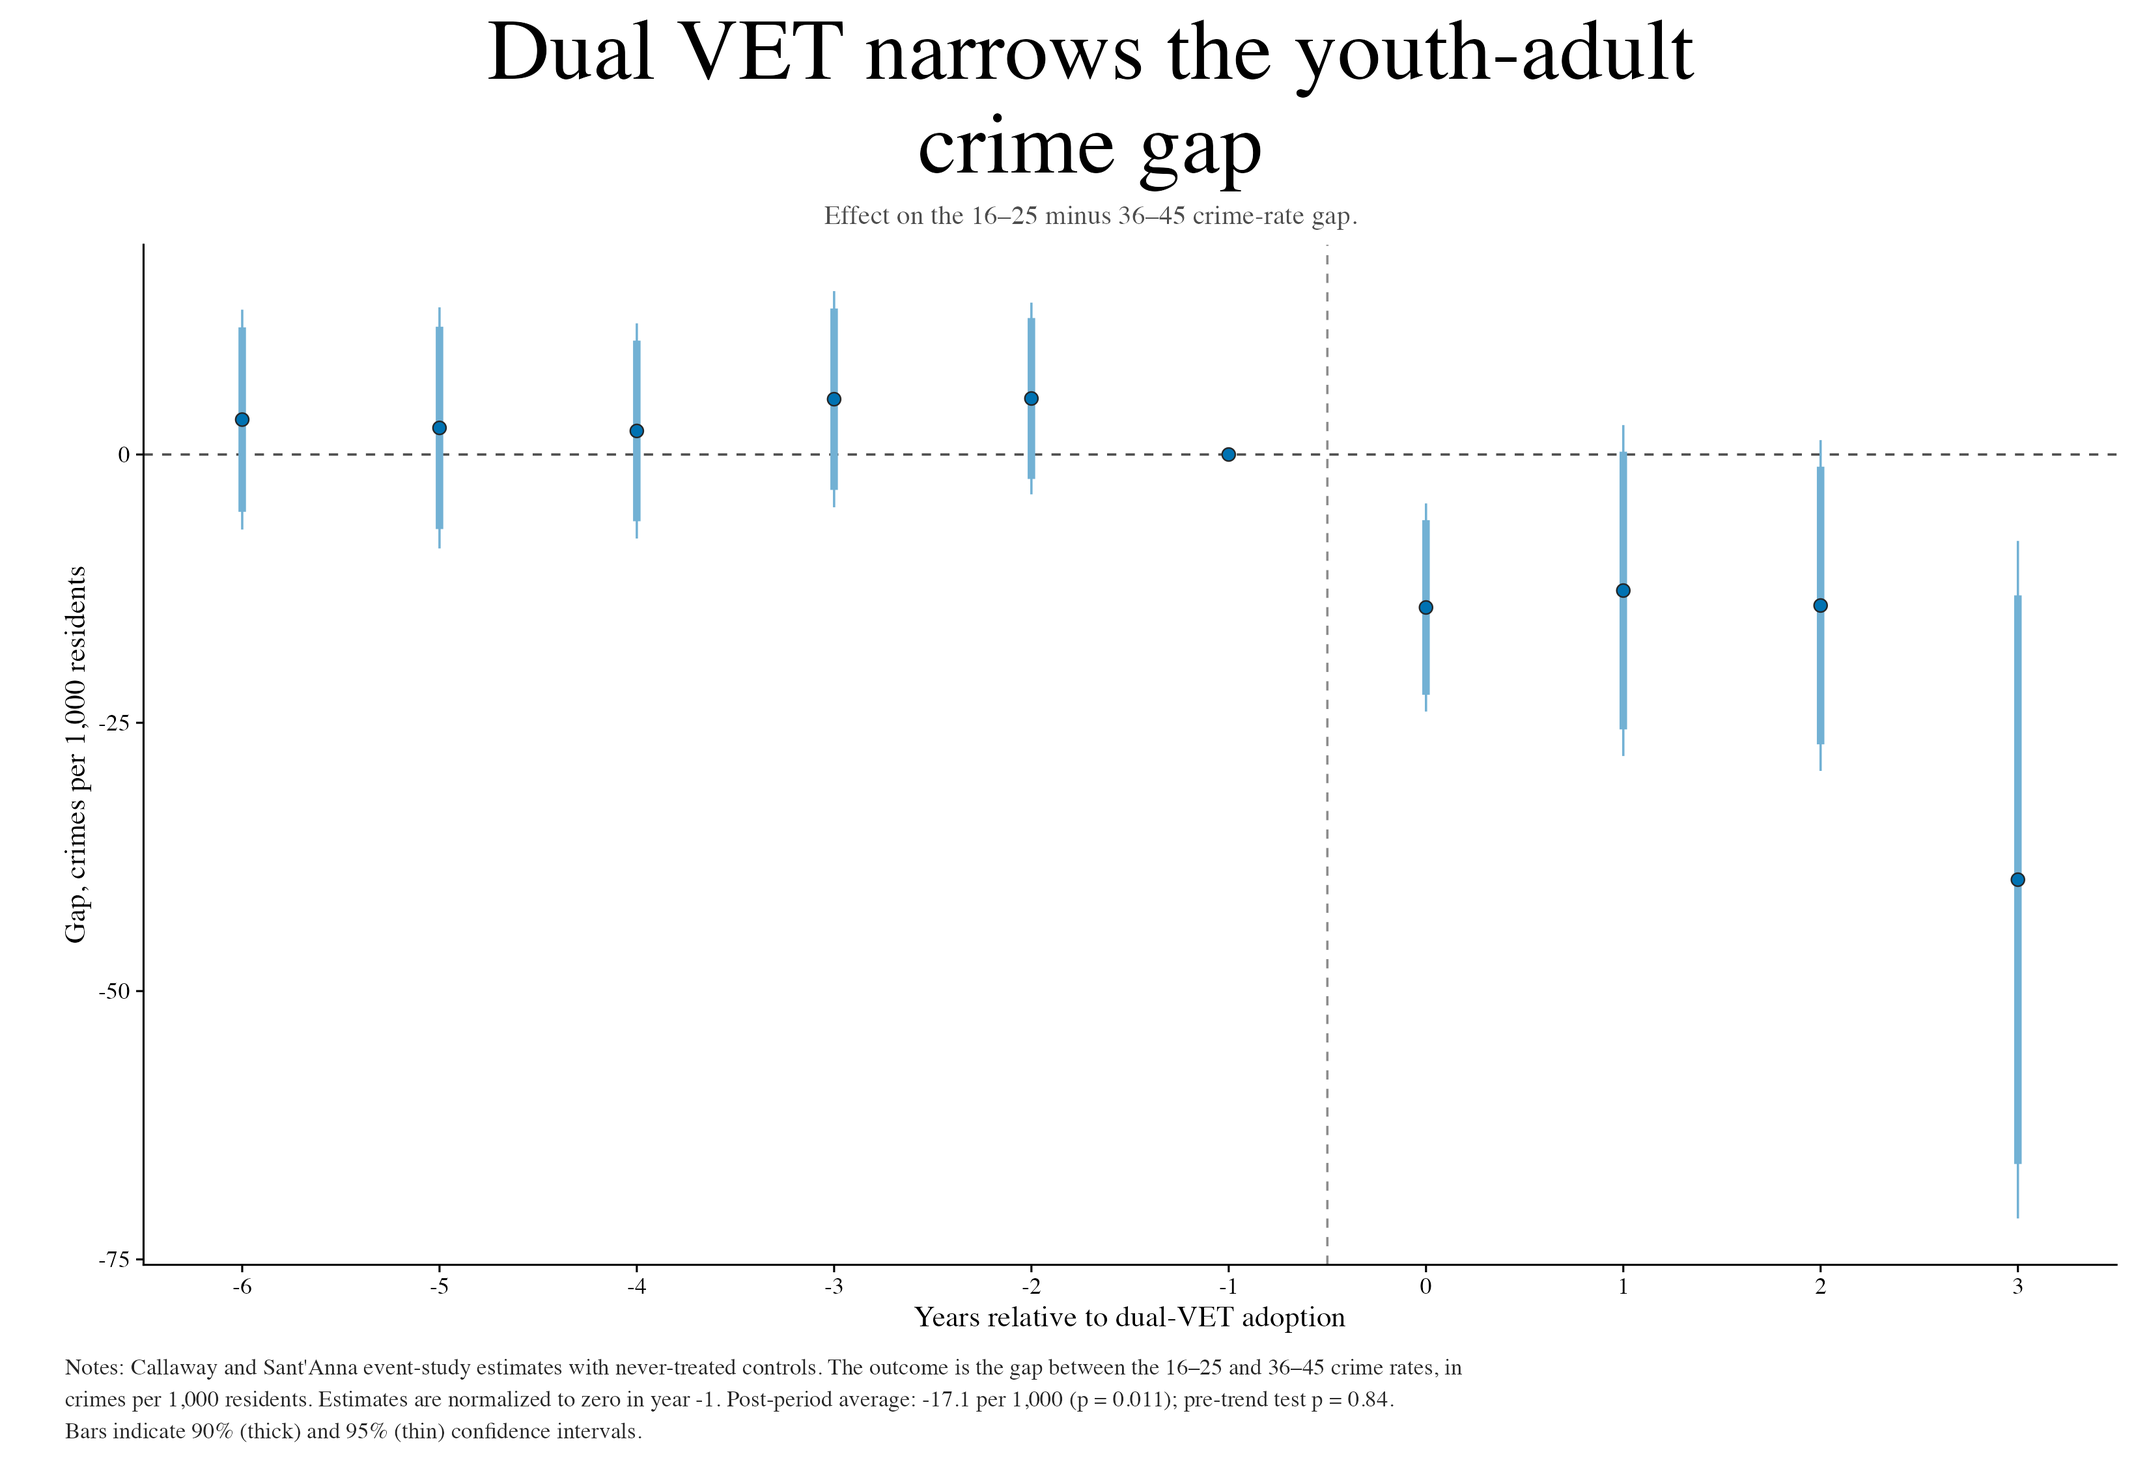
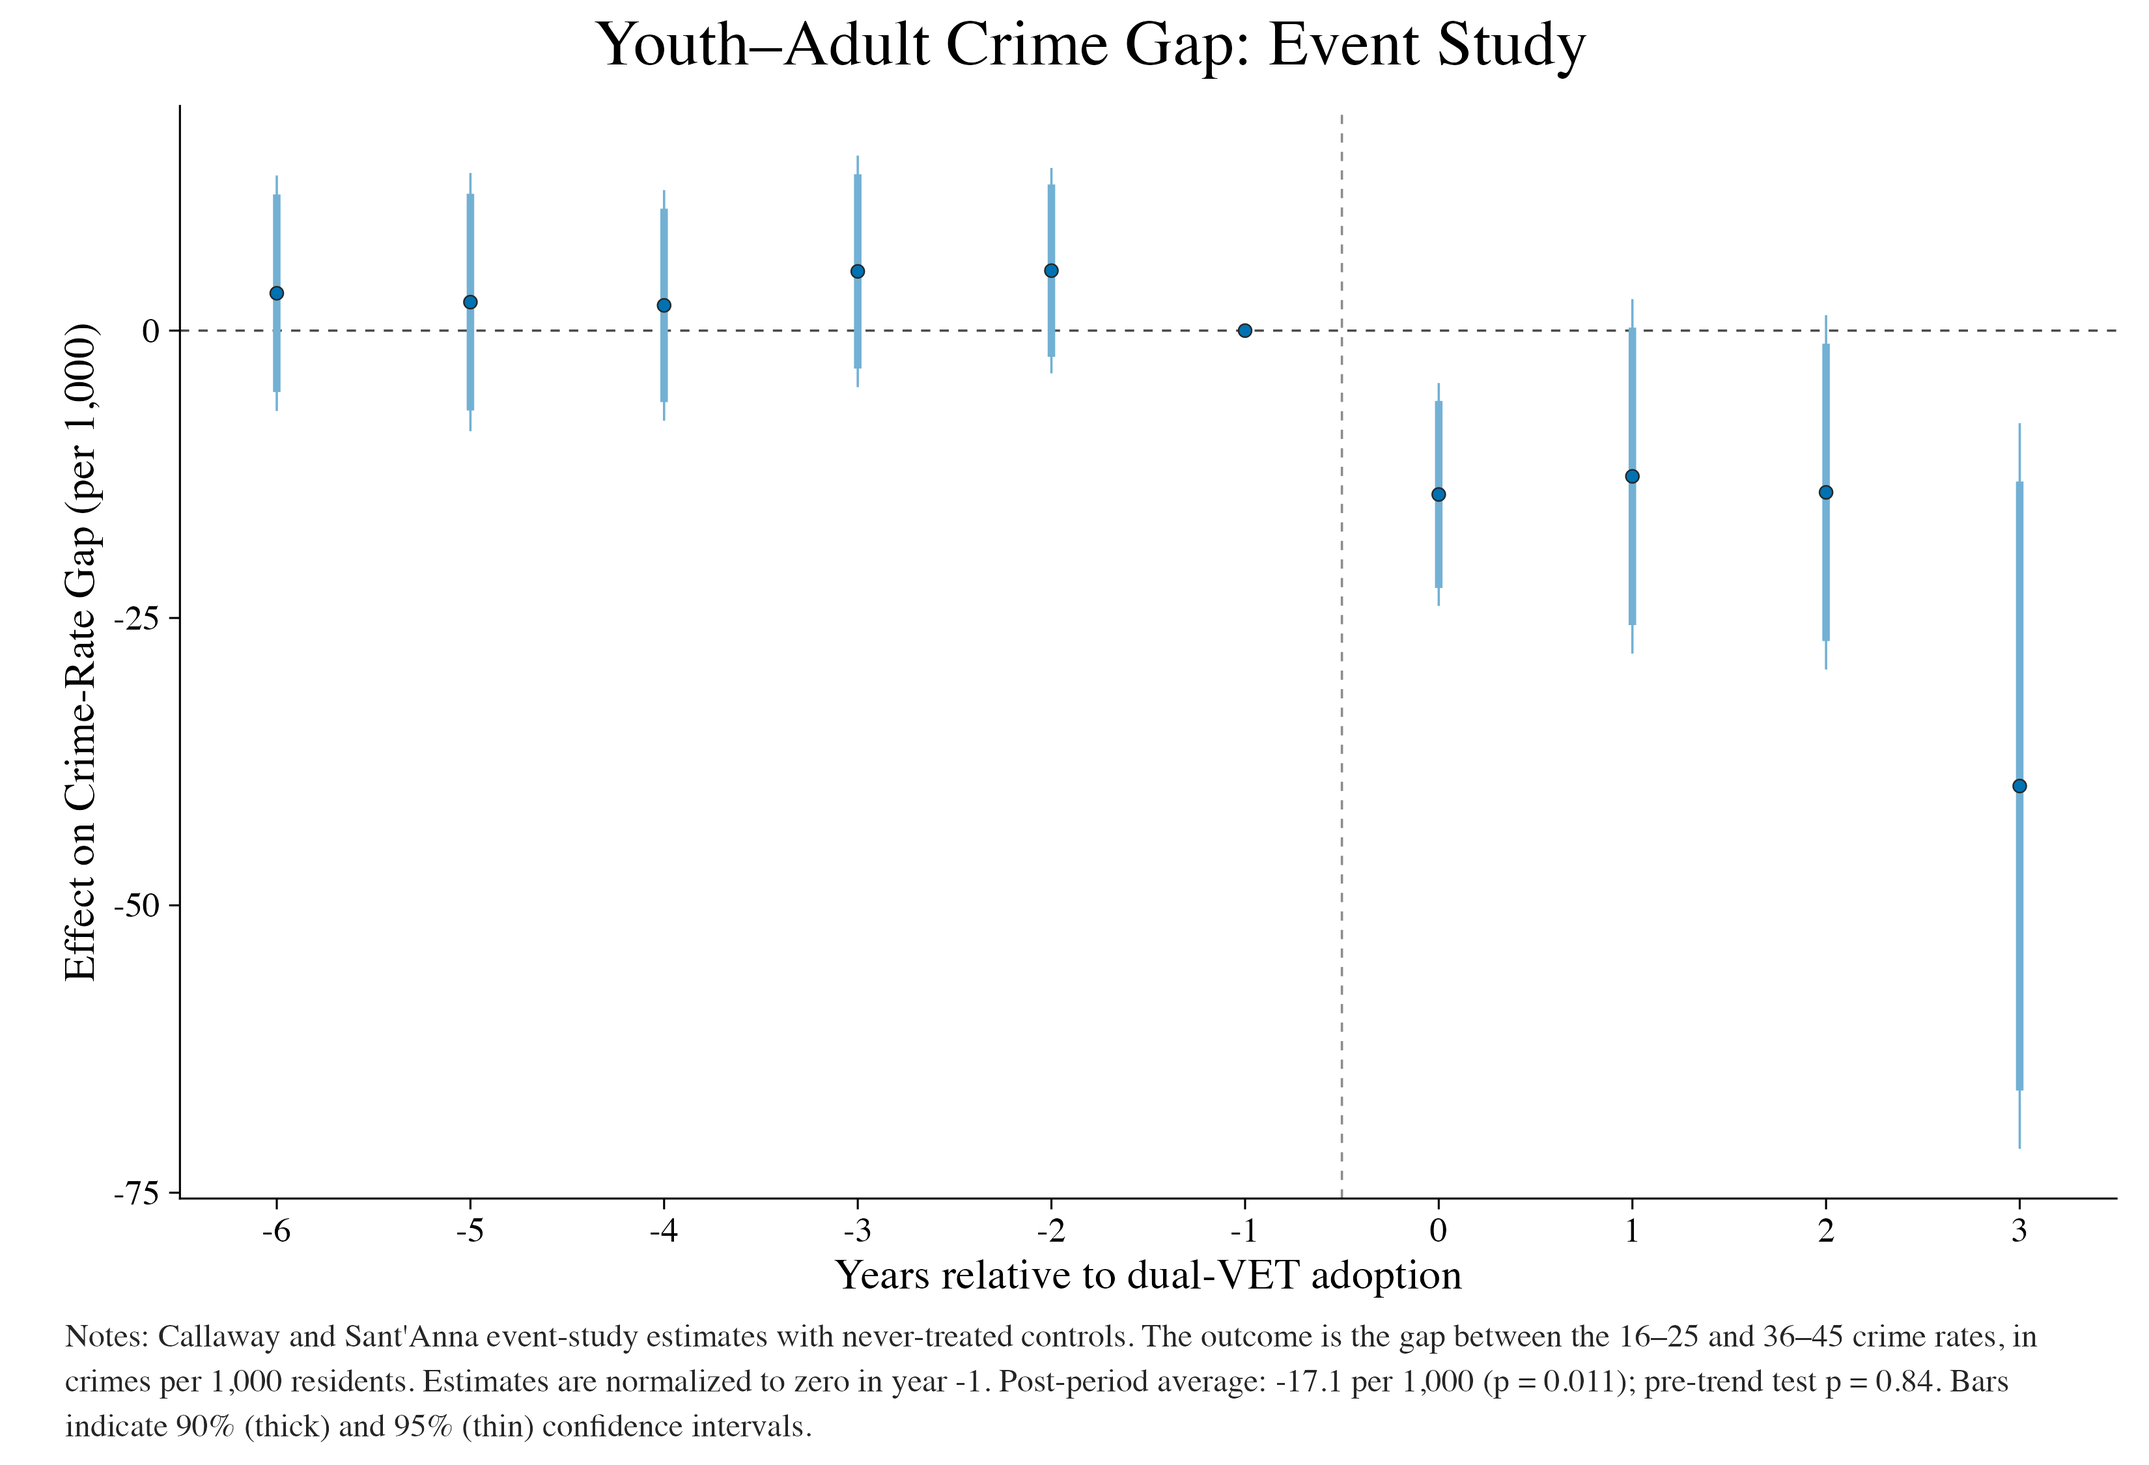
Use outcome-first figure titles and balanced typography

diff --git a/index.html b/index.html
@@ -86,8 +86,8 @@
                         <a href="https://sites.google.com/site/ruizvalenjenifer/" target="_blank" rel="noopener">Jenifer Ruiz Valenzuela</a>)
                     </p>
                     <div class="paper-figures">
-                        <img src="/img/crime_monthly_earnings_large.png?v=20261102d" alt="Graduate Survey – Monthly Earnings">
-                        <img src="/img/crime_youth_adult_gap_centered.png?v=20261102d" alt="Dual VET Narrows the Youth–Adult Crime Gap">
+                        <img src="/img/crime_monthly_earnings_large.png?v=20261104a" alt="Monthly Earnings: Event Study">
+                        <img src="/img/crime_youth_adult_gap_centered.png?v=20261104a" alt="Youth–Adult Crime Gap: Event Study">
                     </div>
                     <div class="abstract-toggle">
                         <button type="button" onclick="toggleAbstract(1)" class="abstract-btn" id="pubabslink_1" aria-expanded="false" aria-controls="pubabs_1">
@@ -106,8 +106,8 @@
                         <a href="https://sergiquintana.github.io/" target="_blank" rel="noopener">Sergi Quintana</a>)
                     </p>
                     <div class="paper-figures">
-                        <img src="/img/reshuffling_up.png?v=20261102d" alt="Continuous DiD – Infantil (published quotas; UP schools)">
-                        <img src="/img/reshuffling_by_type.png?v=20261102d" alt="Continuous DiD – Infantil (UP schools by type; published quotas)">
+                        <img src="/img/reshuffling_up.png?v=20261104a" alt="Vulnerable Student Enrollment: Event Study">
+                        <img src="/img/reshuffling_by_type.png?v=20261104a" alt="Vulnerable Student Enrollment by School Type: Event Study">
                     </div>
                     <div class="abstract-toggle">
                         <button type="button" onclick="toggleAbstract(2)" class="abstract-btn" id="pubabslink_2" aria-expanded="false" aria-controls="pubabs_2">

diff --git a/layouts/index.html b/layouts/index.html
@@ -87,8 +87,8 @@
                         <a href="https://sites.google.com/site/ruizvalenjenifer/" target="_blank" rel="noopener">Jenifer Ruiz Valenzuela</a>)
                     </p>
                     <div class="paper-figures">
-                        <img src="/img/crime_monthly_earnings_large.png?v=20261102d" alt="Graduate Survey – Monthly Earnings">
-                        <img src="/img/crime_youth_adult_gap_centered.png?v=20261102d" alt="Dual VET Narrows the Youth–Adult Crime Gap">
+                        <img src="/img/crime_monthly_earnings_large.png?v=20261104a" alt="Monthly Earnings: Event Study">
+                        <img src="/img/crime_youth_adult_gap_centered.png?v=20261104a" alt="Youth–Adult Crime Gap: Event Study">
                     </div>
                     <div class="abstract-toggle">
                         <button type="button" onclick="toggleAbstract(1)" class="abstract-btn" id="pubabslink_1" aria-expanded="false" aria-controls="pubabs_1">
@@ -107,8 +107,8 @@
                         <a href="https://sergiquintana.github.io/" target="_blank" rel="noopener">Sergi Quintana</a>)
                     </p>
                     <div class="paper-figures">
-                        <img src="/img/reshuffling_up.png?v=20261102d" alt="Continuous DiD – Infantil (published quotas; UP schools)">
-                        <img src="/img/reshuffling_by_type.png?v=20261102d" alt="Continuous DiD – Infantil (UP schools by type; published quotas)">
+                        <img src="/img/reshuffling_up.png?v=20261104a" alt="Vulnerable Student Enrollment: Event Study">
+                        <img src="/img/reshuffling_by_type.png?v=20261104a" alt="Vulnerable Student Enrollment by School Type: Event Study">
                     </div>
                     <div class="abstract-toggle">
                         <button type="button" onclick="toggleAbstract(2)" class="abstract-btn" id="pubabslink_2" aria-expanded="false" aria-controls="pubabs_2">

diff --git a/public/index.html b/public/index.html
@@ -86,8 +86,8 @@
                         <a href="https://sites.google.com/site/ruizvalenjenifer/" target="_blank" rel="noopener">Jenifer Ruiz Valenzuela</a>)
                     </p>
                     <div class="paper-figures">
-                        <img src="/img/crime_monthly_earnings_large.png?v=20261102d" alt="Graduate Survey – Monthly Earnings">
-                        <img src="/img/crime_youth_adult_gap_centered.png?v=20261102d" alt="Dual VET Narrows the Youth–Adult Crime Gap">
+                        <img src="/img/crime_monthly_earnings_large.png?v=20261104a" alt="Monthly Earnings: Event Study">
+                        <img src="/img/crime_youth_adult_gap_centered.png?v=20261104a" alt="Youth–Adult Crime Gap: Event Study">
                     </div>
                     <div class="abstract-toggle">
                         <button type="button" onclick="toggleAbstract(1)" class="abstract-btn" id="pubabslink_1" aria-expanded="false" aria-controls="pubabs_1">
@@ -106,8 +106,8 @@
                         <a href="https://sergiquintana.github.io/" target="_blank" rel="noopener">Sergi Quintana</a>)
                     </p>
                     <div class="paper-figures">
-                        <img src="/img/reshuffling_up.png?v=20261102d" alt="Continuous DiD – Infantil (published quotas; UP schools)">
-                        <img src="/img/reshuffling_by_type.png?v=20261102d" alt="Continuous DiD – Infantil (UP schools by type; published quotas)">
+                        <img src="/img/reshuffling_up.png?v=20261104a" alt="Vulnerable Student Enrollment: Event Study">
+                        <img src="/img/reshuffling_by_type.png?v=20261104a" alt="Vulnerable Student Enrollment by School Type: Event Study">
                     </div>
                     <div class="abstract-toggle">
                         <button type="button" onclick="toggleAbstract(2)" class="abstract-btn" id="pubabslink_2" aria-expanded="false" aria-controls="pubabs_2">

diff --git a/scripts/figures/README.md b/scripts/figures/README.md
@@ -21,7 +21,7 @@ To point it at another location, set `FIG_DROPBOX_ROOT`.
 
 ## Template
 
-The four figures follow the reference paper figure
+Geometry and marks follow the local paper figure
 `Vocational/5_Package/2_Out/Figures/1_did_offer/01_did_validation/eventstudy_crpc_ctrl.png`
 (`make_es_fig()` in `01_did_validation.R`, which calls `plot_event_study_paper_multi()` in
 `_helpers.R`). That figure is saved at 11 × 7.5 in and 300 dpi. The reference PNG is
@@ -30,12 +30,8 @@ website figures are 3300 × 2250, without that footer. Rendering at the referenc
 physical size matters: at the previous 7.2 × 4.4 in canvas, text was about 1.53 times
 too large relative to the panel.
 
-* Serif (Times via ragg). Title 32 pt (raised from the reference's 12 pt for
-  legibility on the site), regular, centred, wrapped on word boundaries at 36
-  characters (each current title takes two lines; `03_verify.R` also measures the
-  widest rendered line against the canvas width). Subtitle 10 pt, grey30. Axis
-  titles 11 pt. Tick and legend text 8.8 pt. Notes 8.5 pt, grey15, line height 1.15,
-  left aligned, wrapped at 150 characters. Plot margins 8/12/8/24 pt (top/right/bottom/left).
+* Typography: see *Titles and type hierarchy* below (serif, 24/16/13/13/12 pt, no
+  subtitle). Plot margins 8/12/8/24 pt (top/right/bottom/left).
 * White background, no grid, black axes (0.35). Zero line `#4D4D4D` and onset line
   `#8C8C8C`, both dashed (0.4).
 * Points size 2.0, stroke 0.4, border `#262626`. Single series: circle (21), fill
@@ -54,24 +50,66 @@ too large relative to the panel.
   saved p < 0.05 and hollow otherwise (including the 2018 reference year). Crime-gap and
   by-type markers are all filled. The 90% bounds play no role in the fill rule.
 
+## Titles and type hierarchy
+
+Reference for naming and hierarchy: the author PDF
+<https://anacostaramon.github.io/papers/KiVA_draft.pdf> (KiVA draft, 1 July 2026),
+Appendix Figure F1, PDF page 56 (printed page 55). Its event-study panels are titled
+by outcome, e.g. "(b) Academic Upper Sec.: Event Study" and "(d) Earnings at Age 29:
+Event Study"; the estimator, sample, clustering and interval conventions are stated in
+the Notes, not in the titles. Typography measured in that PDF: panel captions 9.96 pt;
+inside the panels, axis labels 5.15 pt, ticks 4.11 pt, legend 4.94 pt; Notes 8.97 pt
+across both columns of panels.
+
+The website figures adopt that pattern as a deliberate **web adaptation**, not an
+exact copy of the PDF point sizes:
+
+* Titles: "<Outcome>: Event Study", no estimator names and no result claims.
+  "Monthly Earnings: Event Study"; "Youth–Adult Crime Gap: Event Study"; "Vulnerable
+  Student Enrollment: Event Study"; "Vulnerable Student Enrollment by School Type:
+  Event Study". Embedded in the PNG only.
+* Sizes (serif, Times via ragg), shared by all four figures: title 24 pt regular,
+  centred; axis titles 16 pt; tick labels 13 pt; legend 13 pt; Notes 12 pt, grey15,
+  line height 1.15, left aligned. No subtitle (`subtitle = NULL`, no grob drawn).
+* Rationale: each figure is a standalone 11 × 7.5 in image shown at roughly column
+  width on the site, not a quarter-page panel under a 9.96 pt caption. The PDF's inner
+  sizes (4–5 pt) would be illegible there, so all text is scaled up while keeping the
+  same ordering (title > axis titles > ticks ≈ legend, Notes near tick size). The
+  previous 32 pt title over 11 pt axis titles, 8.8 pt ticks and 8.5 pt Notes inverted
+  the proportions relative to the panels and is retired.
+* Titles are word-wrapped at 70 characters; all four currently fit on one line.
+  `03_verify.R` requires at most 2 lines, all at 24 pt, and measures the widest rendered
+  line against the canvas width minus margins (10.5 in).
+* Notes are wrapped by rendered width (greedy word wrap measured at 12 pt on the ragg
+  device, 0.15 in safety allowance); `03_verify.R` re-measures every line against 10.5 in.
+
 ## Text
 
-Titles, axis labels and the printed statistics of the original website figures are
-kept. Each figure has a left-aligned "Notes:" paragraph that describes its own
+Printed statistics of the original website figures are kept; the original titles and
+subtitles were replaced by the outcome-first titles above, and their estimator, sample
+and outcome information moved into the Notes. Each figure has a left-aligned "Notes:" paragraph that describes its own
 estimator and sample and ends with the same sentence, "Bars indicate 90% (thick) and
 95% (thin) confidence intervals." How the bounds are computed (saved 95% bounds verbatim;
 90% = estimate ± `qnorm(0.95)` × saved SE) is documented here and in the source
 comments, not on the public charts. No variable or cache names appear in the Notes.
 
-* Crime gap: subtitle "Effect on the 16–25 minus 36–45 crime-rate gap." The
-  post-period average (−17.1 per 1,000, p = 0.011) and the pre-trend test (p = 0.84)
+* Axis titles: y "Effect on Monthly Earnings (EUR)" (wage), "Effect on Crime-Rate Gap
+  (per 1,000)" (gap), "Effect on Vulnerable Enrollment (Students)" (both enrollment
+  figures). The x titles keep their original period meaning ("Event time (years
+  relative to dual adoption)", "Years relative to dual-VET adoption", "Year").
+* Crime gap: the former subtitle (16–25 minus 36–45 gap) is covered by the Notes
+  sentence defining the outcome. The post-period average (−17.1 per 1,000, p = 0.011) and the pre-trend test (p = 0.84)
   move from the subtitle into the Notes. The Notes add the estimator ("Callaway and
   Sant'Anna event-study estimates with never-treated controls."; source series
   `csdid_nt`, not printed) and the normalisation (year −1).
 * Pooled UP: the original note (BCN public+charter; baseline 2016–2018; quota year 2019,
   ref = 2018; n = 311; filled = p < 0.05) becomes a sentence-form Notes paragraph naming
-  the continuous difference-in-differences event study.
-* By type: the printed averages (Public +0.057 / +1.259, n = 158; Charter −0.029 / +0.399,
+  the continuous difference-in-differences event study with published quotas. The former
+  title context ("Infantil") and subtitle ("Outcome: Effect on NESE-B number") become the
+  Notes sentence "The outcome is the number of vulnerable (NESE-B) students enrolled in
+  preschool (Infantil)." The variable is unchanged; "UP" is not expanded.
+* By type: same estimator, published-quota and outcome sentences as pooled UP.
+  The printed averages (Public +0.057 / +1.259, n = 158; Charter −0.029 / +0.399,
   n = 153) and the baseline, quota and reference years are kept in full. The original
   note was clipped at the right edge of the image; its full text (quota year 2019,
   ref = 2018) is confirmed by the source.
@@ -135,7 +173,7 @@ so they are **not** used.
 | Crime gap | C&S never-treated, 95% bars | identical values and saved 95% bounds (thin), added 90% bars (thick); blue circles; post-average and pre-trend statistics moved to Notes (panel tag "(a)" dropped) |
 | UP | ribbon 95% CI; filled = p < 0.05 | identical values and saved 95% bounds as thin bars, added 90% thick bars; filled blue circle = p < 0.05 (reference year hollow, as before); original note as Notes |
 | By type | 95% bars, all markers filled | identical values and saved 95% bounds, added 90% bars; Public #0072B2 circle, Charter #D55E00 triangle; untitled bottom legend; Notes keep printed averages and n |
-| Wage | 1600×1050 raster, 95% bars, hollow = not significant | same ggplot template; centres and 95% bar endpoints at the original image coordinates (graphical reconstruction, no numbers derived); added 90% thick bars = 95% bars scaled by qnorm(0.95)/1.96 about the centre; same hollow markers; original title and ATT 39.731*** (SE 13.047) |
+| Wage | 1600×1050 raster, 95% bars, hollow = not significant | same ggplot template; centres and 95% bar endpoints at the original image coordinates (graphical reconstruction, no numbers derived); added 90% thick bars = 95% bars scaled by qnorm(0.95)/1.96 about the centre; same hollow markers; outcome-first title; ATT 39.731*** (SE 13.047) in Notes |
 
 ## Monthly wage figure (`img/crime_monthly_earnings_large.png`)
 
@@ -218,8 +256,12 @@ is recovered, and none is written to disk. The Notes keep only the original prin
 statistics.
 
 Fidelity is geometric at the original raster resolution, not numerical estimator
-exactness. Text keeps the original title, subtitle and axis labels; the Notes keep
-"Overall ATT: 39.731*** (SE 13.047)", state that e = −1 is the normalized base period
+exactness. Text: title "Monthly Earnings: Event Study", y axis "Effect on Monthly Earnings (EUR)".
+The former title/subtitle information moves to the Notes: Callaway and Sant'Anna
+estimates for binary dual-offer adoption, not-yet-treated controls, standard errors
+clustered at the school level, and the outcome "monthly wage in EUR, coded at bracket
+midpoints" (the original axis "Monthly Wage (EUR, midpoints)"; same variable). The Notes
+keep "Overall ATT: 39.731*** (SE 13.047)", state that e = −1 is the normalized base period
 and that deeper pre-periods come from later adopters, and end with the same sentence as
 the other figures, "Bars indicate 90% (thick) and 95% (thin) confidence intervals."
 `03_verify.R` checks that each drawn centre and 95% bar endpoint equals the saved
